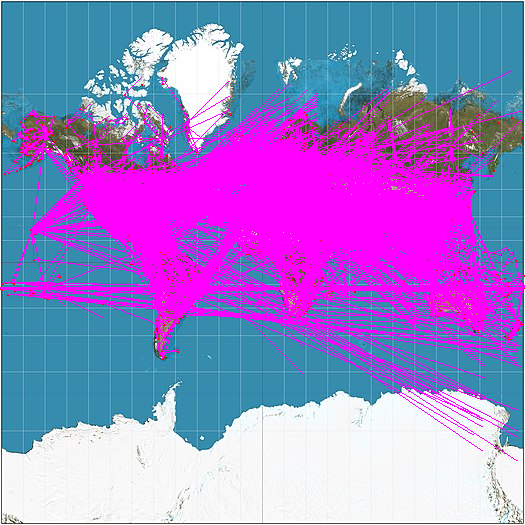
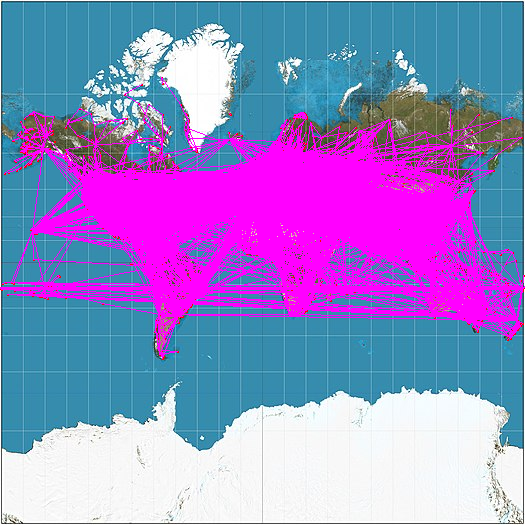
GRPA H 😌🦕🥳🥳🥳

diff --git a/src/graph.cpp b/src/graph.cpp
@@ -357,7 +357,7 @@ double Graph::degToRadian(double degrees)
     return (2 * (M_PI)) * (degrees / 360);
 }
 
-void Graph::drawNodesOfGraphOnPNG(double h, double s, double l, int xSize, int ySize)
+std::vector<std::pair<double, double>> Graph::drawNodesOfGraphOnPNG(double h, double s, double l, int xSize, int ySize)
 {
     std::map<std::string, std::pair<double, double>> m = codeToPosition("airports.csv");
     std::vector<std::string> vertices = getVertices();
@@ -376,8 +376,10 @@ void Graph::drawNodesOfGraphOnPNG(double h, double s, double l, int xSize, int y
             continue;
         }
 
+        existingNodes_.push_back(std::make_pair(points.first, points.second));
         png_.drawCircle((size_t)points.first, (size_t)points.second, h, s, l, xSize, ySize);
     }
+    return existingNodes_;
 }
 
 void Graph::drawEdgesOfGraphOnPNG(double h, double s, double l)
@@ -409,6 +411,16 @@ void Graph::drawEdgesOfGraphOnPNG(double h, double s, double l)
                 continue;
             }
 
+            if (std::find(existingNodes_.begin(), existingNodes_.end(), std::make_pair(sourcePoints.first, sourcePoints.second)) == existingNodes_.end())
+            {
+                continue;
+            }
+            if (std::find(existingNodes_.begin(), existingNodes_.end(), std::make_pair(destPoints.first, destPoints.second)) == existingNodes_.end())
+            {
+                
+                continue;
+            }
+            
             png_.drawLine(sourcePoints.first, sourcePoints.second, destPoints.first, destPoints.second, h, s, l);
         }
     }
@@ -419,6 +431,7 @@ void Graph::drawGraphOnPNG(std::pair<double, double> h1h2, std::pair<double, dou
 {
     if (nodes)
         drawNodesOfGraphOnPNG(h1h2.first, s1s2.first, l1l2.first, xNodeSize, yNodeSize);
+
     if (vertices)
         drawEdgesOfGraphOnPNG(h1h2.second, s1s2.second, l1l2.second);
 

diff --git a/entry/main.cpp b/entry/main.cpp
@@ -29,23 +29,13 @@ int main()
     std::pair<double, double> nodes0 = g1.getNodePositions().at("BTI");
     std::pair<double, double> nodes1 = g1.getNodePositions().at("GRY");
 
-    std::cout << "points1 first: " << points1.first << "  "
-              << "points1 second: " << points1.second << std::endl;
-    std::cout << "points0 first: " << points0.first << "  "
-              << "points0 second: " << points0.second << std::endl;
-
-    std::cout << "nodes1 first: " << nodes1.first << "  "
-              << "nodes1 second: " << nodes1.second << std::endl;
-    std::cout << "nodes0 first: " << nodes0.first << "  "
-              << "nodes0 second: " << nodes0.second << std::endl;
-
-    std::cout << "TEST:  " << g1.latitudeToXAndYPos(nodes0.second, nodes0.first, g1.getPng().width(), g1.getPng().height()).first << " :TEST: " << g1.latitudeToXAndYPos(nodes0.second, nodes0.first, g1.getPng().width(), g1.getPng().height()).second << std::endl;
-
     PNG png;
     png.readFromFile("../baby.png");
 
-    png.drawLine(png.width() / 2, png.height() / 2, points1.first, points1.second, h1h2.second, s1s2.second, l1l2.second);
-    png.drawLine((int) points0.first, (int) points0.second, (int) points1.first, (int) points1.second, h1h2.second, s1s2.second, l1l2.second);
+    std::cout << "Location of points1 first: " << points1.first << " second: " << points1.second << std::endl;
+
+    png.drawLine(png.width() / 2, png.height() / 2, (int)points1.first, (int)points1.second, h1h2.second, s1s2.second, l1l2.second);
+    png.drawLine((int)points0.first, (int)points0.second, (int)points1.first, (int)points1.second, h1h2.second, s1s2.second, l1l2.second);
 
     png.writeToFile("../lineHopefully.png");
 

diff --git a/src/graph.h b/src/graph.h
@@ -94,7 +94,7 @@ public:
     void drawGraphOnPNG(std::pair<double, double> h1h2, std::pair<double, double> s1s2,
                         std::pair<double, double> l1l2, int xNodeSize, int yNodeSize, std::string newFileName, bool nodes, bool vertices);
 
-    void drawNodesOfGraphOnPNG(double h, double s, double l, int xSize, int ySize);
+    std::vector<std::pair<double, double>> drawNodesOfGraphOnPNG(double h, double s, double l, int xSize, int ySize);
     void drawEdgesOfGraphOnPNG(double h, double s, double l);
 
     // Populate adjacency_list
@@ -184,6 +184,9 @@ private:
     mutable std::map<std::string, std::pair<double, double>> node_positions_;
     // lonLatcoordinates converted to xy points
     mutable std::map<std::string, std::pair<double, double>> pixel_points_;
+    // Nodes that exist on our map
+    std::vector<std::pair<double, double>> existingNodes_;
+
 
     int picNum_;
     string picName_;

diff --git a/lib/cs225/PNG.cpp b/lib/cs225/PNG.cpp
@@ -30,7 +30,7 @@ namespace cs225
     // Clear self
     delete[] imageData_;
 
-    // Copy `other` to self
+    // Copy `ot\workspaces\LinkedListLuvrs-OpenFlights-Graph-Algorithm\lineHopefully.pngher` to self
     width_ = other.width_;
     height_ = other.height_;
     imageData_ = new HSLAPixel[width_ * height_];
@@ -129,7 +129,7 @@ namespace cs225
       if (D > 0)
       {
         y = y + yi;
-        D = D + (2 * dy - dx);
+        D = D + (2 * (dy - dx));
       }
       else
       {
